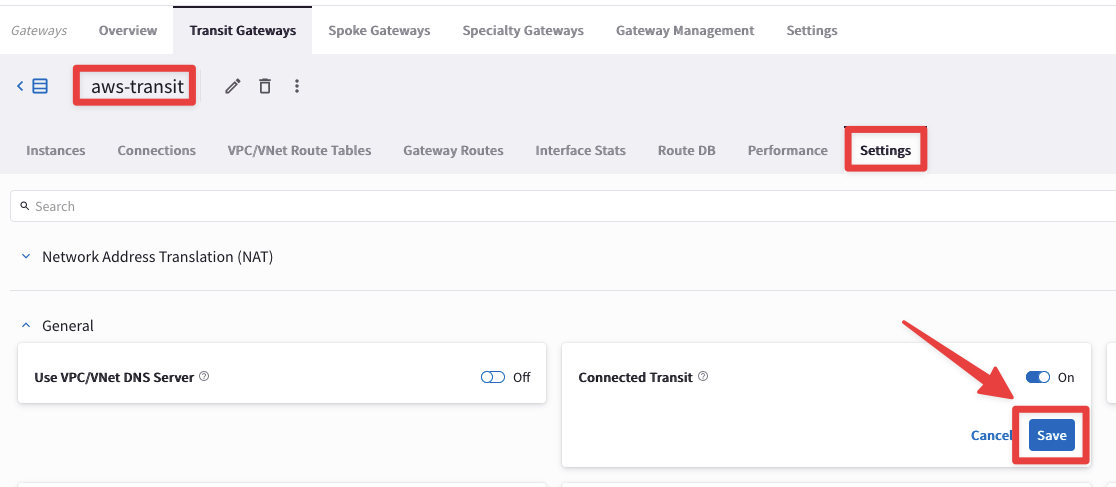
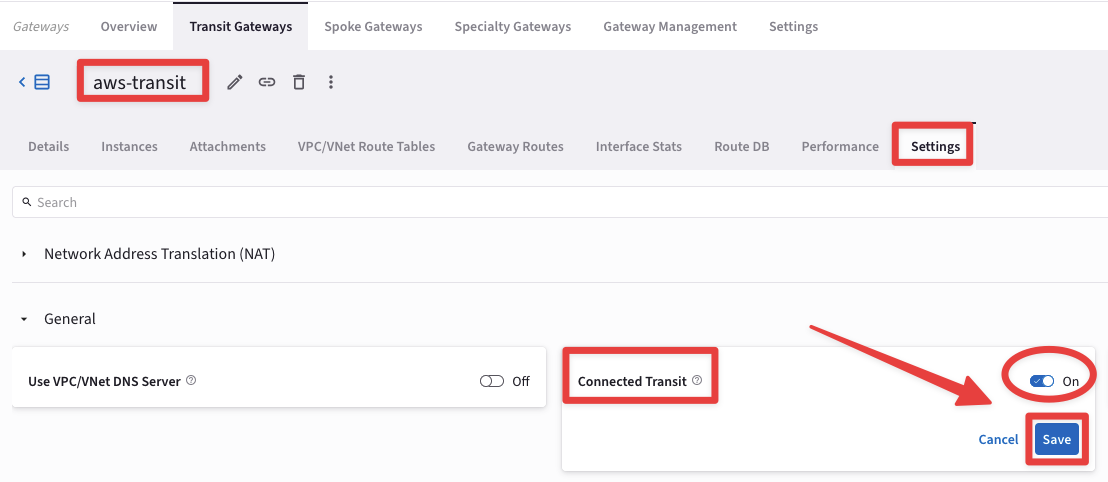
update for associate

diff --git a/ace_associate/docs/lab3.md b/ace_associate/docs/lab3.md
@@ -1,6 +1,6 @@
 # Lab 3 - Expanding to multi-cloud
 
-Lab time: ~30 minutes
+Lab time: **~30** minutes
 
 **_Scenario_**:  The business has decided to go multicloud! Some apps simply run better in other clouds, and why put all eggs in one basket? During this exercise we will deploy in AWS an Aviatrix Transit VPC, Transit Gateway and attach the existing spoke gateways to the aws transit. We will also peer Azure and AWS and test out the connectivity.
 
@@ -50,7 +50,7 @@ Set up the topology builder
 ```
 
 * Hit **Save** to start the configuration session.
-* Click The "+" sign next to transit, to add a new transit.
+* Click The `"+"` sign next to Transit, to add a new transit.
 
 ```{figure} images/lab3-transit.png
 ---
@@ -153,14 +153,25 @@ Deploy
 
 > **Important:** By default, routes are not propagated between spokes attached to the transit gateway. We have to enable a setting on our transit gateway to allow this to happen.  
 
+```{important}
+Please wait for some minutes for the aws-transit GW deployment completion!
+```
+
+```{figure} images/lab3-deploycompleted.png
+---
+align: center
+---
+Deployment completed
+```
+
 * Go to **_Cloud Fabric -> Gateways -> Transit Gateways_** and click on **_aws-transit_**.
-* Open the settings pane and enable and save **Connected Transit** under the General settings.
+* Open the settings pane and enable and save **Connected Transit** under the `General` settings.
 
 ```{figure} images/lab3-connected-transit.png
 ---
 align: center
 ---
-Enable connected transit
+Enable Connected Transit
 ```
 
 ### Expected Results
@@ -222,7 +233,7 @@ align: center
 CoPilot Topology with Attached Spokes
 ```
 
-* If your topology does not show the connection to the spokes, refresh the page after a minute or so.
+* If your topology does not show the connection to the spokes, <ins>refresh the page</ins> after a minute or so.
 
 ## Lab 3.4 - Enable network segmentation on the AWS transit
 
@@ -278,7 +289,7 @@ After adding the network domains and associations, you should see the following 
 ---
 align: center
 ---
-Add network domains
+Add Network Domains
 ```
 
 ## Lab 3.6 - Create a connection policy

diff --git a/ace_associate/docs/lab2.md b/ace_associate/docs/lab2.md
@@ -394,10 +394,9 @@ Add Network domain connection
 
 ```{figure} images/lab2-network-domain-overview.png
 ---
-height: 300px
 align: center
 ---
-Network domain overview
+Logical View
 ```
 
 ## Lab 2.10 - Check office connectivity
